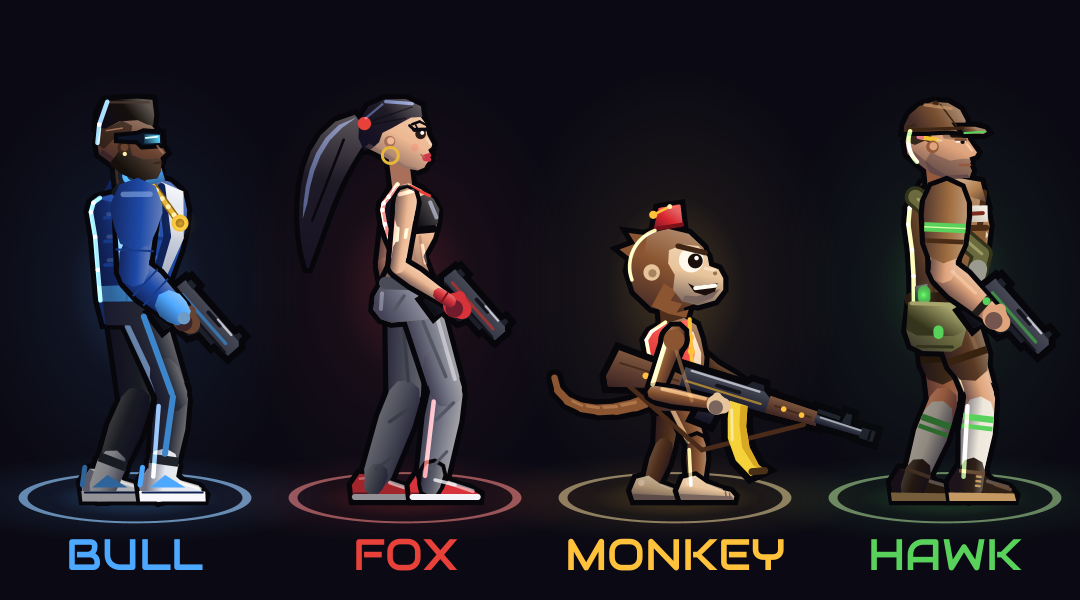
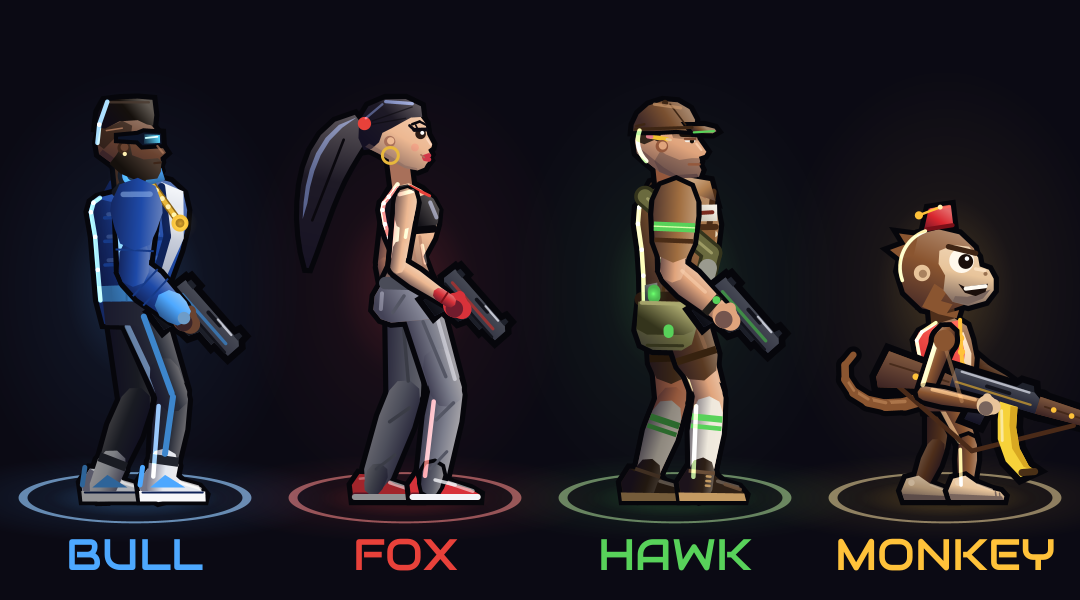
Put MONKEY last: BULL, FOX, HAWK, MONKEY
The special character closes the lineup. The per-hero music tables and
the kit array follow the new order; saves are by name, so nothing moves.

Claude-Session: https://claude.ai/code/session_01MfqfvatkN4F6aFHQXa5gro

diff --git a/app/src/main/java/com/bradflaugher/aboutthataction/audio/HeroMusic.kt b/app/src/main/java/com/bradflaugher/aboutthataction/audio/HeroMusic.kt
@@ -129,14 +129,14 @@ internal object HeroSongs {
     private val HOT_BPM = arrayOf(
         floatArrayOf(140f, 142f, 144f, 144f, 140f, 146f, 150f, 148f), // BULL: heavy trap, half-time
         floatArrayOf(132f, 134f, 136f, 136f, 132f, 138f, 142f, 138f), // FOX: breakbeat rave
-        floatArrayOf(172f, 176f, 178f, 180f, 174f, 182f, 190f, 184f), // MONKEY: jungle stampede
         floatArrayOf(114f, 116f, 118f, 120f, 114f, 120f, 125f, 122f), // HAWK: delivery-van funk
+        floatArrayOf(172f, 176f, 178f, 180f, 174f, 182f, 190f, 184f), // MONKEY: jungle stampede
     )
     private val SNEAK_BPM = arrayOf(
         floatArrayOf(74f, 75f, 76f, 77f, 74f, 78f, 82f, 80f), // BULL: heavy boom-bap
         floatArrayOf(102f, 104f, 106f, 106f, 102f, 108f, 112f, 108f), // FOX: late-night swing
-        floatArrayOf(88f, 90f, 92f, 94f, 90f, 96f, 100f, 96f), // MONKEY: jungle night
         floatArrayOf(90f, 92f, 94f, 96f, 92f, 96f, 100f, 98f), // HAWK: elevator bossa
+        floatArrayOf(88f, 90f, 92f, 94f, 90f, 96f, 100f, 96f), // MONKEY: jungle night
     )
 
     // ---- Loudness trims (measured: each arrangement matches its zone's own track) ----------
@@ -144,16 +144,16 @@ internal object HeroSongs {
     private val HOT_TRIM = arrayOf(
         floatArrayOf(0.78f, 0.78f, 0.77f, 0.79f, 0.79f, 0.82f, 0.86f, 0.75f), // BULL
         floatArrayOf(1.12f, 1.12f, 1.11f, 1.10f, 1.11f, 1.15f, 1.28f, 1.05f), // FOX
-        floatArrayOf(1.12f, 1.20f, 1.21f, 1.25f, 1.27f, 1.24f, 1.44f, 1.15f), // MONKEY
         floatArrayOf(0.98f, 0.93f, 0.95f, 0.95f, 0.99f, 0.96f, 1.09f, 0.92f), // HAWK
+        floatArrayOf(1.12f, 1.20f, 1.21f, 1.25f, 1.27f, 1.24f, 1.44f, 1.15f), // MONKEY
     )
     private val SNEAK_TRIM = arrayOf(
         floatArrayOf(0.75f, 0.71f, 0.70f, 0.70f, 0.72f, 0.74f, 0.70f, 0.73f), // BULL
         floatArrayOf(0.85f, 0.83f, 0.84f, 0.88f, 0.85f, 0.86f, 0.86f, 0.88f), // FOX
-        floatArrayOf(1.01f, 0.98f, 0.94f, 0.96f, 1.04f, 1.02f, 1.03f, 1.04f), // MONKEY
         floatArrayOf(0.93f, 0.90f, 0.92f, 0.89f, 0.91f, 0.94f, 0.92f, 0.93f), // HAWK
+        floatArrayOf(1.01f, 0.98f, 0.94f, 0.96f, 1.04f, 1.02f, 1.03f, 1.04f), // MONKEY
     )
-    private val THEME_TRIM = floatArrayOf(0.73f, 1.07f, 1.15f, 0.91f)
+    private val THEME_TRIM = floatArrayOf(0.73f, 1.07f, 0.91f, 1.15f)
 
     /** A drum tuned to the zone's key: its tonic, on or above MIDI note [lo]. */
     private fun keyed(base: SongSpec, lo: Int): Float = Dsp.midiToHz((lo + Math.floorMod(base.tonic - lo, 12)).toFloat())

diff --git a/app/src/main/java/com/bradflaugher/aboutthataction/engine/Hero.kt b/app/src/main/java/com/bradflaugher/aboutthataction/engine/Hero.kt
@@ -73,6 +73,15 @@ enum class Hero(
         takedownReach = 0.35f, reactionScale = 1.35f, fireScale = 0.85f,
     ),
     /**
+     * A deadpan parcel courier in brown shorts and a cap, scanner glowing lime. Lives in a box (of course), unplugs the robots, and is always on time.
+     */
+    HAWK(
+        "HAWK", "Parcel courier. Always on time.",
+        "Sneaks unseen, unplugs robots, sly box, fast reloads", "Goes postal. Politely.",
+        0xFF58D25A.toInt(),
+        boxPro = true, sabotage = true, sneakSight = 0.75f, reloadScale = 0.75f,
+    ),
+    /**
      * A small monkey with a very big gun: he ran away from the circus and brought the
      * hardware. The weapons specialist: a 12-round rifle that fires fast, pickup guns that
      * last longer, and he's short enough that high shots sail over him. No hands free for
@@ -83,15 +92,6 @@ enum class Hero(
         "12-round rifle; no takedowns or stomps; high shots miss him", "Oo oo. Ah ah. Pew pew.",
         0xFFFFC23A.toInt(),
         magSize = 12, gunTime = 1.5f, melee = false, height = 0.95f,
-    ),
-    /**
-     * A deadpan parcel courier in brown shorts and a cap, scanner glowing lime. Lives in a box (of course), unplugs the robots, and is always on time.
-     */
-    HAWK(
-        "HAWK", "Parcel courier. Always on time.",
-        "Sneaks unseen, unplugs robots, sly box, fast reloads", "Goes postal. Politely.",
-        0xFF58D25A.toInt(),
-        boxPro = true, sabotage = true, sneakSight = 0.75f, reloadScale = 0.75f,
     ),
     ;
 

diff --git a/app/src/main/java/com/bradflaugher/aboutthataction/render/HeroArt.kt b/app/src/main/java/com/bradflaugher/aboutthataction/render/HeroArt.kt
@@ -15,7 +15,7 @@ internal class HeroArt(val f: Frame, val p: ActorPaint, val k: Rig, val body: Ac
     val look = Look()
 
     var hero = Hero.BULL
-    private val kits = arrayOf(BullKit(this), FoxKit(this), MonkeyKit(this), HawkKit(this))
+    private val kits = arrayOf(BullKit(this), FoxKit(this), HawkKit(this), MonkeyKit(this))
     val kit: HeroKit get() = kits[hero.ordinal]
 
     // ---- Set by the poser.

diff --git a/app/src/test/java/com/bradflaugher/aboutthataction/audio/HeroMusicTest.kt b/app/src/test/java/com/bradflaugher/aboutthataction/audio/HeroMusicTest.kt
@@ -355,7 +355,7 @@ class HeroMusicTest {
         // playHeroTheme also picks the hero for the run.
         e.setZone(Zone.ROOFTOP)
         render(e, 8f)
-        assertEquals("rooftop-hawk", e.songName)
+        assertEquals("rooftop-${Hero.entries.last().name.lowercase()}", e.songName)
     }
 
     @Test

diff --git a/README.md b/README.md
@@ -127,7 +127,7 @@ notes and every threshold are in [`docs/CONTROLS.md`](docs/CONTROLS.md).
 
 ## Heroes
 
-<p align="center"><img src="docs/screenshots/lineup.png" alt="The four heroes: BULL, FOX, MONKEY and HAWK" width="720"></p>
+<p align="center"><img src="docs/screenshots/lineup.png" alt="The four heroes: BULL, FOX, HAWK and MONKEY" width="720"></p>
 
 Pick who's going down on the title screen. Every hero plays the same
 building, but with a different body: an always-on trait, three perks only
@@ -138,8 +138,8 @@ music.
 |---|---|---|
 | **BULL** | A heavyweight in a quilted bomber, shades and a gold chain. Tough, fast, bulldozes. | +1 heart, runs 10% faster, tackles Heavies head-on (no bouncing off the armor) |
 | **FOX** | A martial-arts brawler in a black sports bra, baggy grey fighting pants, red gloves and red shoes, a long, glossy black ponytail whipping behind her. Kicks first, questions never: the takedown specialist. | Takedowns reach 0.35 u further (long legs), a 15% quicker trigger; guards take 35% longer to react once they spot her |
-| **MONKEY** | A small monkey with a very big gun, on the run from the circus: the weapons specialist. Oo oo. Ah ah. Pew pew. | A 12-round rifle (instead of a 6-round pistol) and pickup guns last 50% longer. He's short (0.95 u), so guards' straight high shots sail over his head (fireballs still come down on him); they know it and aim low more often (at least 70% of the time), and drones dip to his height. No takedowns, no stomps: walking into a guard just gets him noticed, landing on a head is a hop off it. In SILENT his gun still answers anyone onto him, loudly |
 | **HAWK** | A deadpan parcel courier in brown shorts, knee socks and a cap, scanner glowing, who lives in a cardboard box (naturally): the SILENT specialist. Goes postal, politely. | Unplugs drones and turrets by hand, like a takedown (quiet, and not while one is aiming at him); in SILENT guards spot him from a quarter less far; the box glides (2.2 u/s instead of 1.3) and never looks suspicious moving; reloads 25% faster |
+| **MONKEY** | A small monkey with a very big gun, on the run from the circus: the weapons specialist. Oo oo. Ah ah. Pew pew. | A 12-round rifle (instead of a 6-round pistol) and pickup guns last 50% longer. He's short (0.95 u), so guards' straight high shots sail over his head (fireballs still come down on him); they know it and aim low more often (at least 70% of the time), and drones dip to his height. No takedowns, no stomps: walking into a guard just gets him noticed, landing on a head is a hop off it. In SILENT his gun still answers anyone onto him, loudly |
 
 Their perks:
 
@@ -261,16 +261,16 @@ heats up the beat holds its breath for one beat, then drops. **FOX** plays an
 early-90s street-brawler soundtrack, all FM synths: a smooth late-night new-jack
 swing of electric piano, slap bass and a sultry lead, then a breakbeat rave of
 piano-house stabs, a bouncing bass and bright brass that drops hard when the
-heat climbs. **MONKEY** ran away from the circus back to the jungle, and
+heat climbs. **HAWK**'s radio is stuck on the courier's
+station: elevator-muzak bossa nova (nylon guitar, vibraphone, a cross-stick
+clave and a soft flute), then 70s delivery-van funk with ghost-note breakbeats,
+slap bass, wah clavinet, horn stabs and a cop-show lead; his game over is a
+van-horn beep-beep and a doorbell. Delivered. **MONKEY** ran away from the circus back to the jungle, and
 brought the calliope: sneaking is a jungle night of key-tuned bongos and congas,
 a shaker, crickets, a wooden marimba and the odd monkey "hoo"; with guns hot it's
 a stampede of pounding war drums, log drums and balafon runs with the circus's
 steam calliope screaming on top and slide whistles through every fill. His game
-over goes "ooh-ooh-AAH!", then "ta-DAAA!", then a sad slide whistle. **HAWK**'s radio is stuck on the courier's
-station: elevator-muzak bossa nova (nylon guitar, vibraphone, a cross-stick
-clave and a soft flute), then 70s delivery-van funk with ghost-note breakbeats,
-slap bass, wah clavinet, horn stabs and a cop-show lead; his game over is a
-van-horn beep-beep and a doorbell. Delivered.
+over goes "ooh-ooh-AAH!", then "ta-DAAA!", then a sad slide whistle.
 The hero picker plays each one's theme. Every tune is original.
 
 ## Install

diff --git a/AGENTS.md b/AGENTS.md
@@ -61,8 +61,8 @@ the JVM.
   instant reversal, flicks mid-drag, zero-latency taps; grenades are a HUD button, not a gesture).
 - `render/` — `Gfx.kt` is the tiny drawing interface; `Renderer` draws the
   world, HUD and overlays through it. `HeroArt` paints the player on one shared
-  rig, dressed by a `HeroKit` per hero (`HeroBull`, `HeroFox`, `HeroMonkey`,
-  `HeroHawk`); `HeroPortrait` draws that same figure for the hero picker.
+  rig, dressed by a `HeroKit` per hero (`HeroBull`, `HeroFox`, `HeroHawk`,
+  `HeroMonkey`); `HeroPortrait` draws that same figure for the hero picker.
 - `audio/` — procedural synth, sequencer, songs per zone, SFX; `SoundEngine`
   is the API. `AudioOutput.kt` streams it to an `AudioTrack`.
 - `AndroidGfx.kt` — `Gfx` on `android.graphics.Canvas`.
